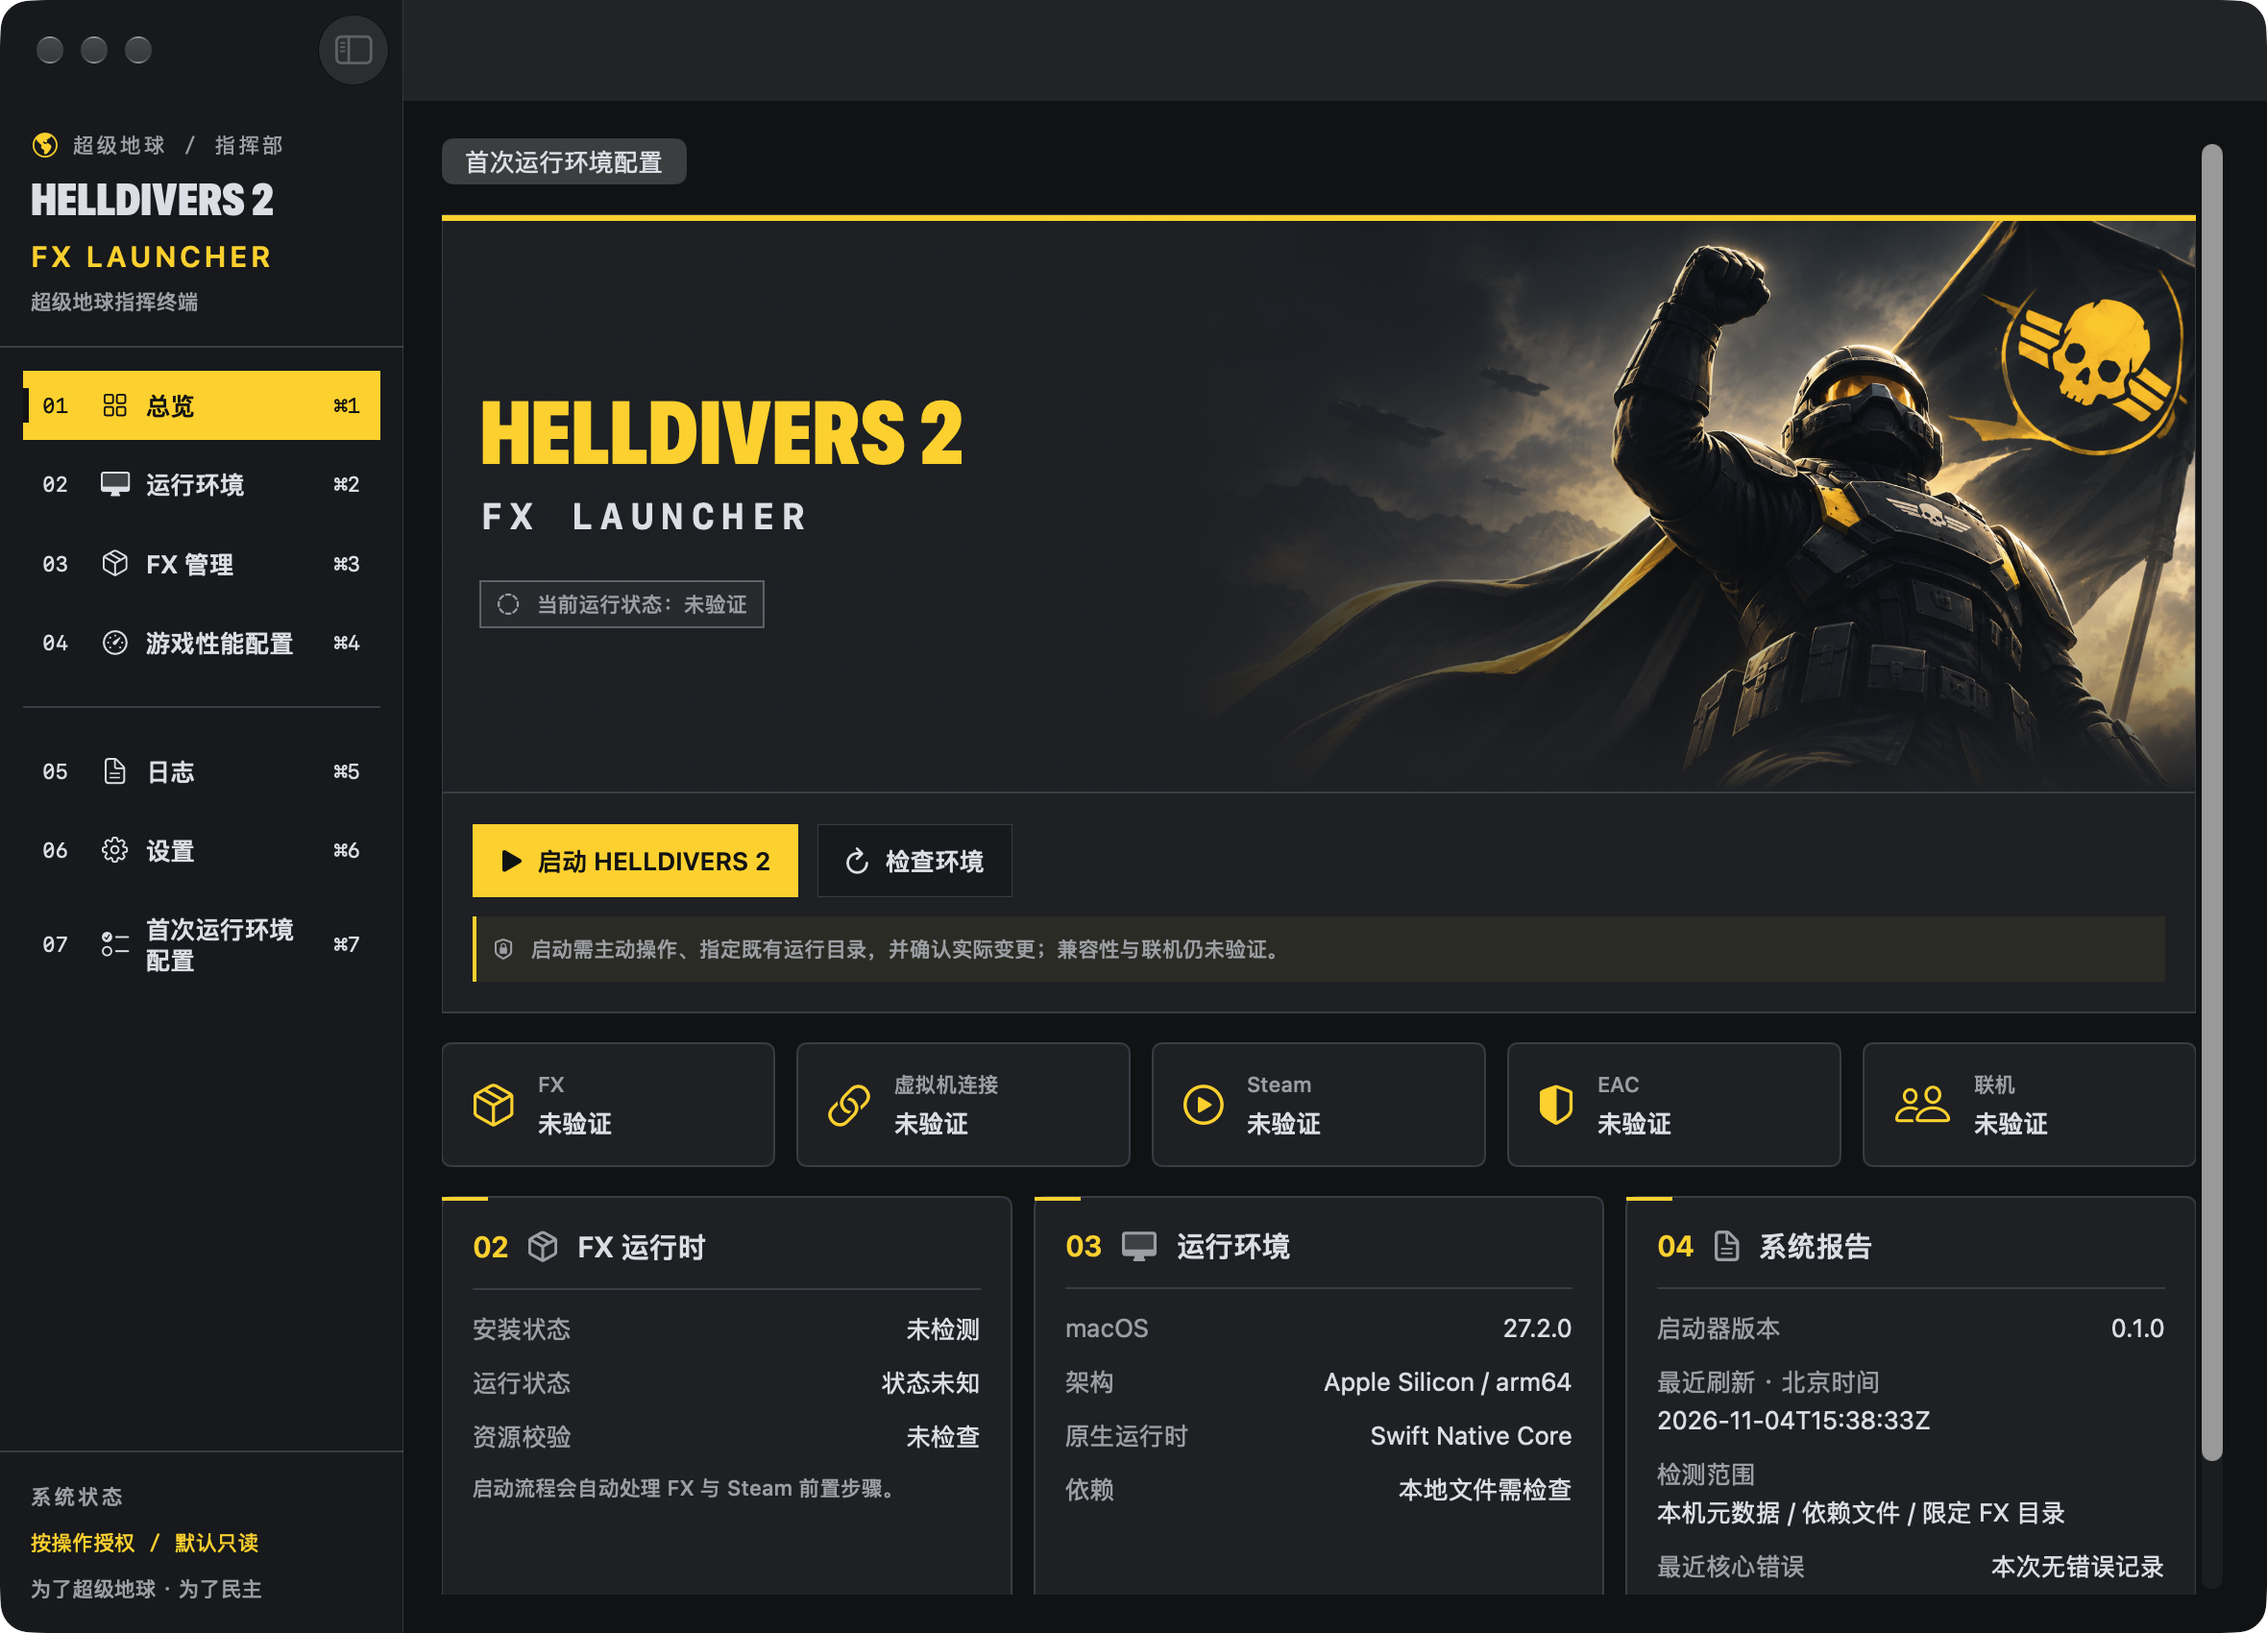
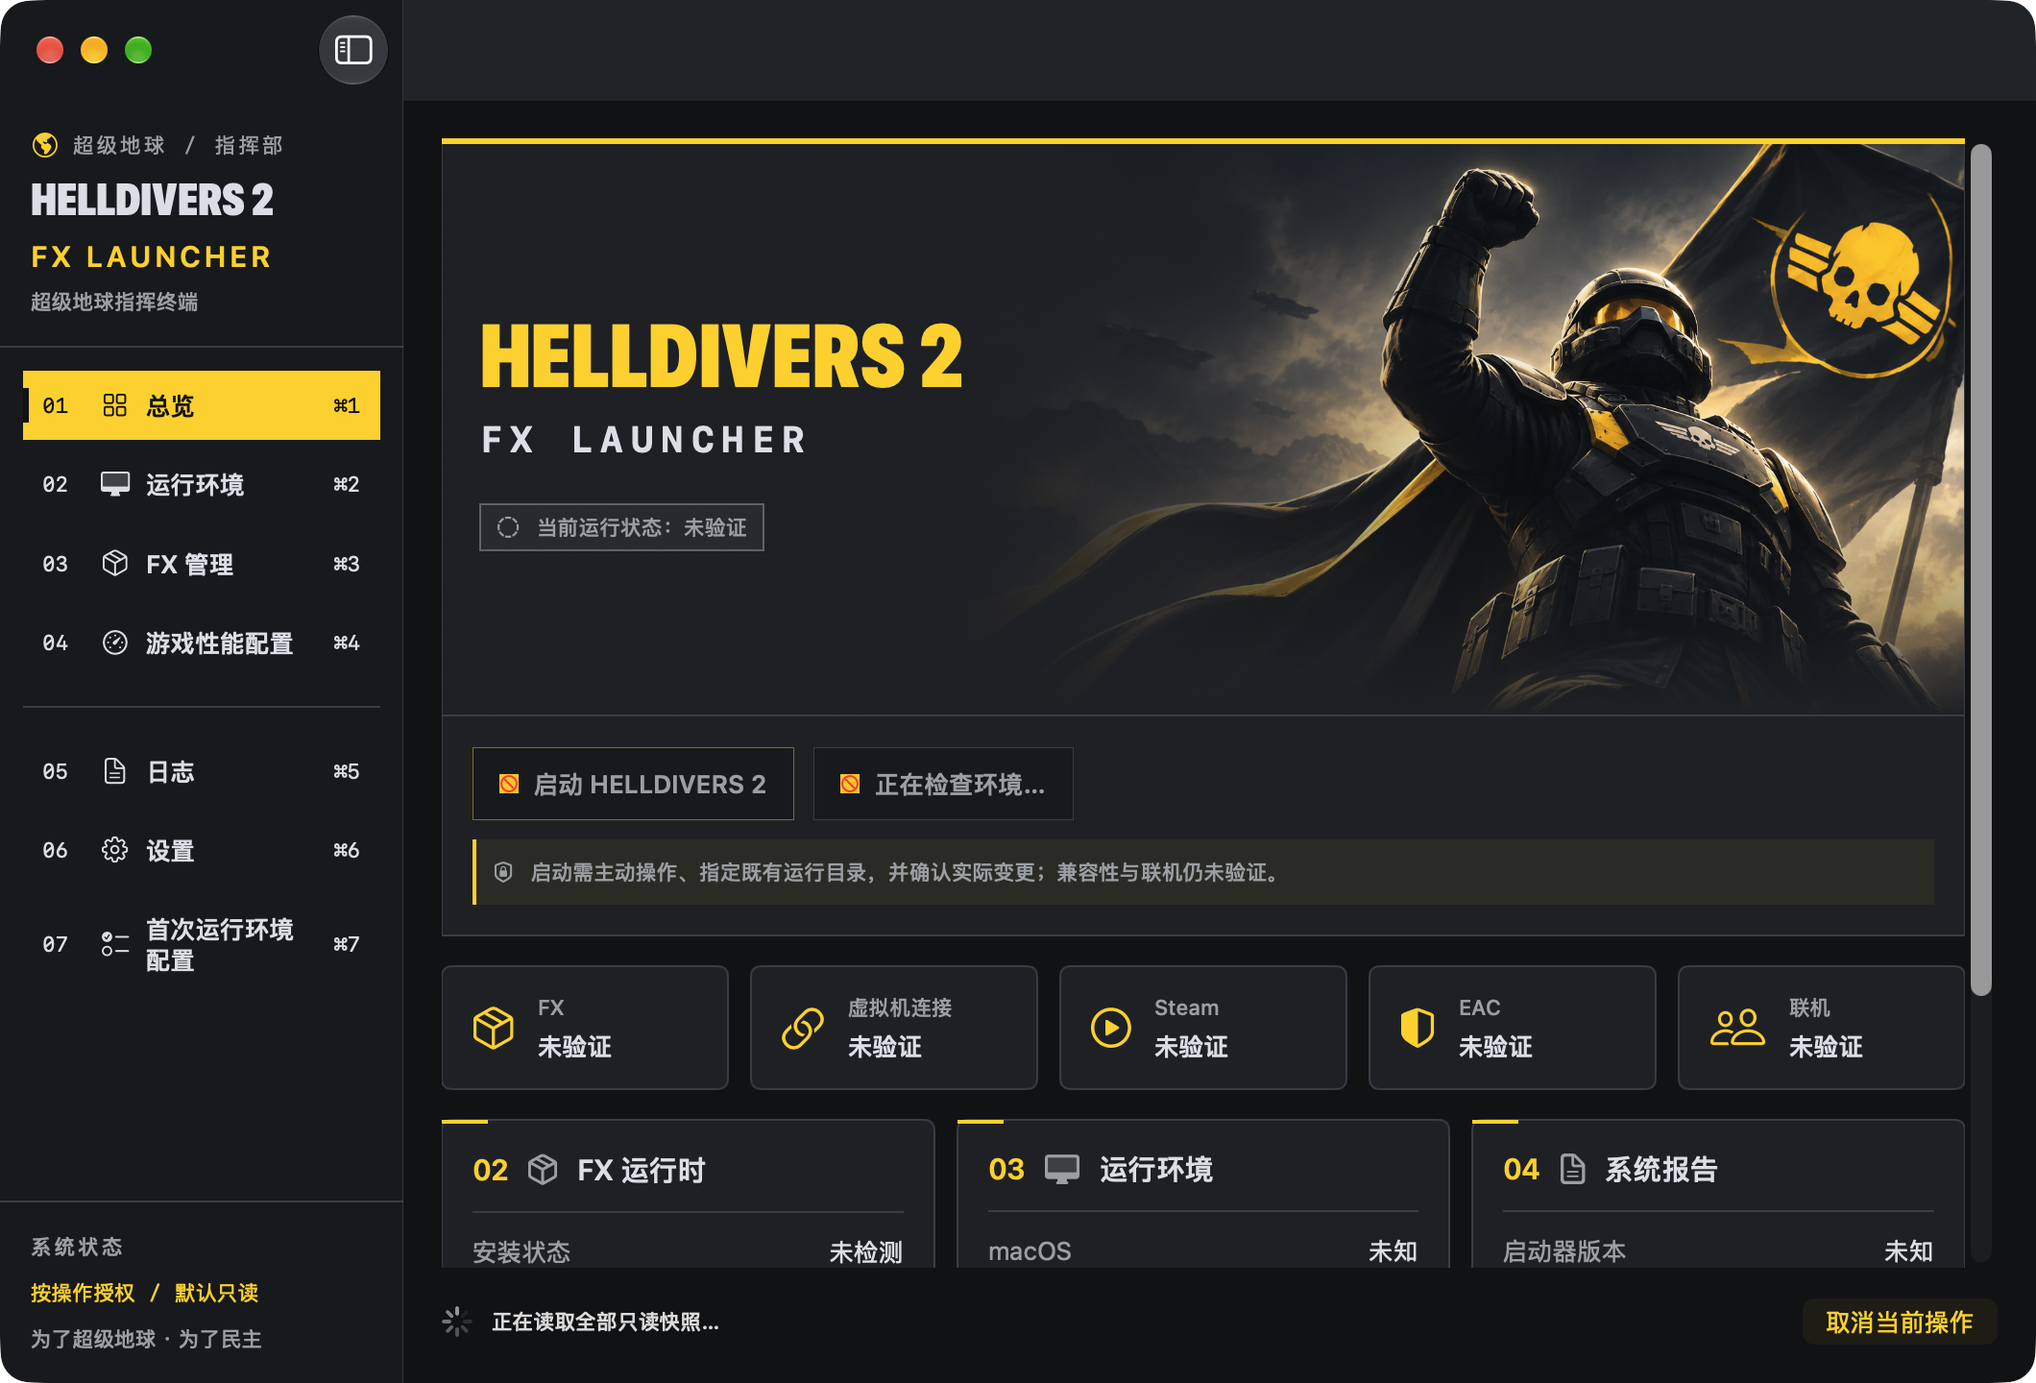
ui: remove duplicate first-run setup shortcut from dashboard

diff --git a/native-app/Views/DashboardView.swift b/native-app/Views/DashboardView.swift
@@ -11,7 +11,6 @@ struct DashboardView: View {
     }
     var body: some View {
         VStack(alignment: .leading, spacing: TacticalSpacing.panel) {
-            Button(state.t("ui.setup.title")) { state.selection = .setup }
             hero
             TacticalAdaptiveLayout(minimumWidth: 120, maximumColumns: 5) {
                 TacticalMetric(title: "FX", value: observed("fx_host_running"), symbol: "shippingbox")

diff --git a/README.md b/README.md
@@ -185,3 +185,7 @@ Sudo investigation (2026-11-04): build 2026110402 has a remote empty-prompt quot
 Acceptance in progress: selected FX entries are deduplicated against automatic discovery. FX 1.9.9 is installed and discoverable but performance writes are unsupported; real Guest/game acceptance and formal distribution remain pending. See [acceptance report](docs/acceptance/FULL_SYSTEM_ACCEPTANCE_REPORT.md).
 
 The game launch sheet closes automatically after the current launch completes with a detected game process; errors, cancellation and unverified results remain visible. Process detection does not establish main-menu or multiplayer success. This dismissal change awaits a fresh live GUI check; existing screenshots do not demonstrate it.
+
+First-Run Setup is available from the sidebar; the duplicate shortcut above the Dashboard hero has been removed.
+
+The Dashboard image was refreshed from an isolated real Debug window on 2026-11-05 (build 2026110503). It captures the layout while the initial read-only snapshot is loading; it is not runtime acceptance evidence. Other screenshots retain their recorded build provenance.

diff --git a/CHANGELOG.md b/CHANGELOG.md
@@ -8,6 +8,8 @@ No official release has been published yet. The current Native App version `0.1.
 
 ## Unreleased
 
+- Remove the duplicate First-Run Setup shortcut above the Dashboard hero; keep setup accessible from the sidebar.
+
 - Automatically close the game launch sheet when the current launch completes with a detected game process. Keep failed, cancelled and unverified launches open for inspection.
 
 - Fix duplicate selected FX entries in automatic discovery; correct current seven-page documentation. Real Guest/game and distribution acceptance remain pending.

diff --git a/CHANGELOG.zh-CN.md b/CHANGELOG.zh-CN.md
@@ -8,6 +8,8 @@
 
 ## 未发布
 
+- 移除总览主视觉上方重复的首次运行环境配置入口，保留侧边栏入口。
+
 - 本次游戏启动完成且检测到游戏进程后自动关闭启动弹窗；失败、取消或进程未确认时保留弹窗，便于检查。
 
 - 修复所选 FX 在自动发现中重复出现的问题；更正当前七页面文档。真实 Guest／游戏及分发验收仍待完成。
